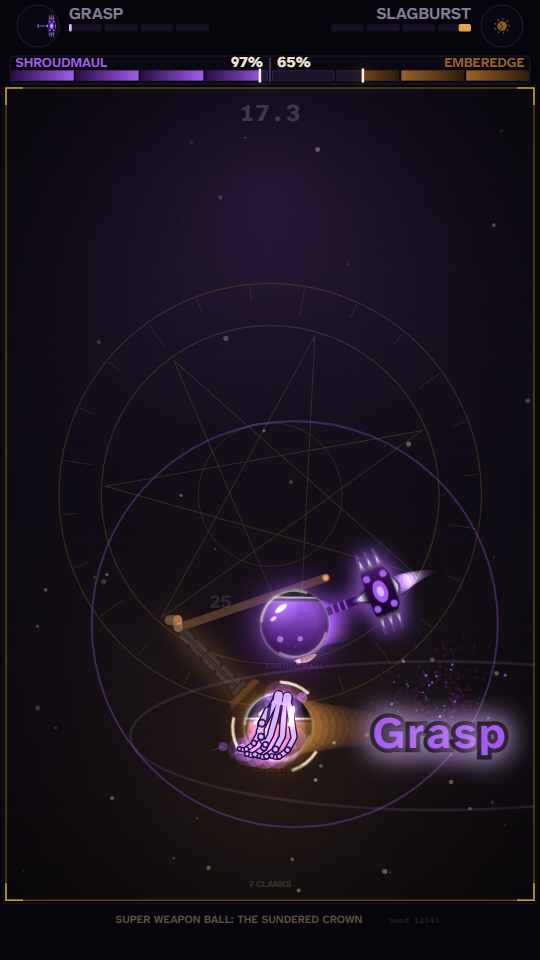
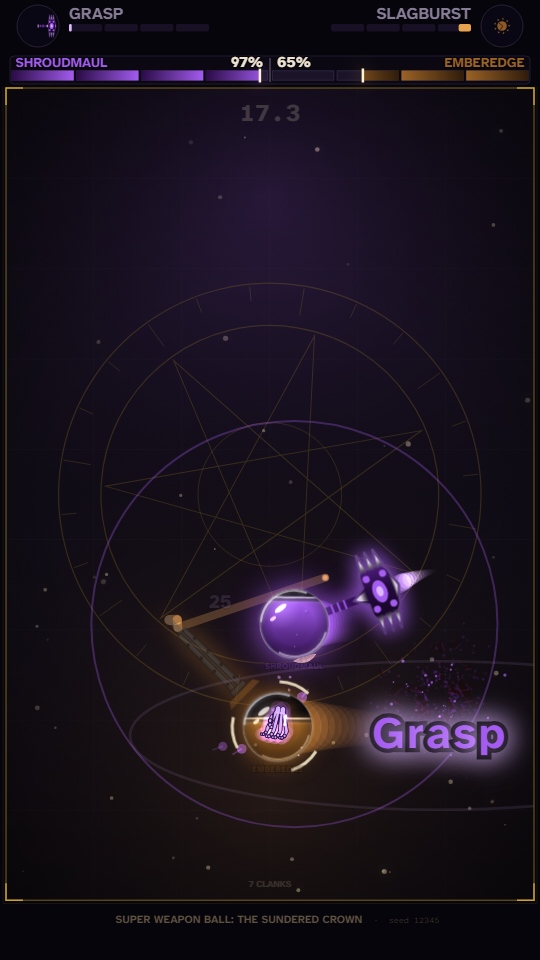
The hand was twice the size of the thing that grew it, with a spider's fingers — and both of those measure
Rick: "can we try making the hand smaller than the artifact? and with shorter
fingers in better proportion to an actual hand?"

BOTH COMPLAINTS MEASURE. The artifact is 68px across:

  GRASP, open, at GRIP_SCALE 2.8    140.5 x 63.9 px    2.07x the artifact
  GRASP, shut, at GRIP_SCALE 2.8     72.3 x 58.2 px    1.06x

And the proportion, straight out of `_boneParts`: metacarpals span 0.82R while
three phalanges plus their gaps run 1.52R — a hand of 1 : 1.85, where on a real
hand the middle finger and the palm are close to the same length.

  GRIP_SCALE  2.8 -> 1.55      GRIP_FINGER (new) 0.55   =>  1 : 1.02

  GRASP, open       59.7 x 32.5    0.88x the artifact
  GRASP, shut       34.6 x 28.0    0.51x
  GRASP, crushing   42.2 x 34.2    0.62x
  Revenant's        27.7 x 15.7    0.41x   for scale, and Rick called that
                                           legible AS A HAND

THE WIDTHS ARE DELIBERATELY NOT SCALED WITH THE LENGTHS. A shorter finger at
the same thickness is a THICKER finger, and thick short fingers are most of
what separates a hand from a claw.

AND THE ARITHMETIC THAT PICKED THE FIRST ANSWER MEASURED THE WRONG THING. 1.8
was chosen off the skeleton's centreline extent and came in at 1.02x — right on
the line and not under it — because the drawn hand carries a stroke width on
every bone and the thumb spreads past the palm, and that is 18% of it. Measure
the bounding box of the parts, not the skeleton's extent.

VERIFICATION
[…]

diff --git a/02-chain/sc-gnawed.html b/02-chain/sc-gnawed.html
@@ -1586,6 +1586,20 @@ function ballisticAngle(dx, dy, v, g){
    comical"). This is ONE hand, it is attached to the fighter that grew it, and
    it has to carry an ultimate that puts no number on the screen at all.
 
+   AND 2.8 WAS TOO BIG, WHICH IS RICK AGAIN: "can we try making the hand
+   smaller than the artifact?" MEASURED, IT WAS TWICE THE ARTIFACT. The ball is
+   68px across; the open hand's bounding box at 2.8 is **140px**, or 2.07x it.
+   1.8 was the first answer and it came in at **1.02x** — right on the line and
+   not under it. The arithmetic that picked it measured bone CENTRELINES; the
+   drawn hand carries a stroke width on every bone and the thumb spreads past
+   the palm, and that is 18% of it. **Measure the bounding box of the parts,
+   not the skeleton's extent.**
+
+   1.55 puts the open hand at 60px — **0.88x** — the closed one at 0.51x and
+   the crush at 0.62x, so the hand is smaller than the thing that grew it in
+   every state. For scale, Revenant's is 0.41x and Rick called that legible as
+   a hand, so there is room below this and not much above it.
+
    1.35 WAS THE FIRST CUT AND IT WAS REFUTED BY THE FIRST SHEET. Photographed
    off a real match (`grasp_sheet.py`) the hand came out ~40px on a 540 frame
    and read as a white scribble on the ball -- which is Rick's own complaint
@@ -1602,7 +1616,21 @@ function ballisticAngle(dx, dy, v, g){
    question cannot be answered off a sheet: the sheet shows the object still,
    and every size complaint in this project's history has been about an object
    in motion among others. FILM IT. */
-const GRIP_SCALE = 2.8;
+const GRIP_SCALE = 1.55;
+
+/* AND THE FINGERS ARE SHORTENED TO A REAL HAND'S PROPORTION. Rick: "with
+   shorter fingers in better proportion to an actual hand?"
+
+   `_boneParts` is drawn at 1 : 1.85 — metacarpals 0.82R against phalanges and
+   gaps of 1.52R — which is a spider's hand, and at Revenant's small airborne
+   scale nobody noticed. On a real hand the middle finger and the palm are
+   close to the same length. 0.55 puts the fingers at 0.84R against the palm's
+   0.82R, which is 1 : 1.02.
+
+   THE WIDTHS ARE NOT SCALED WITH THEM, deliberately: a shorter finger at the
+   same thickness is a THICKER finger, and thick short fingers are most of what
+   separates a hand from a claw. */
+const GRIP_FINGER = 0.55;
 
 const WEAPON_BY_ID = Object.fromEntries(WEAPONS.map(w => [w.id, w]));
 
@@ -18224,8 +18252,12 @@ class Renderer {
      in motion among two others. */
   _handScale(shut){ return (13 + 5 * (1 - shut)) * 0.7; }
 
-  _boneParts(R, shut){
+  _boneParts(R, shut, finger){
     const p = [], s = shut;
+    /* HOW LONG THE FINGERS ARE, as a share of the length Revenant uses.
+       Undefined is 1, so `drawHands`' two-argument call is untouched. GRASP
+       passes GRIP_FINGER — see the constant for the proportion it fixes. */
+    const F = finger === undefined ? 1 : finger;
     /* THE FOREARM IS TWO BONES, and it is the thing that started this. */
     p.push({ x1: -3.00 * R, y1: -0.20 * R, x2: -0.90 * R, y2: -0.22 * R,
              w: 0.20 * R });
@@ -18248,23 +18280,23 @@ class Renderer {
       const taper = (k === 3 ? 0.80 : 1) * (k === 0 ? 0.90 : 1);
       let x = 0.30 * R, yy = y, a = s * 0.62;
       for (let seg = 0; seg < 3; seg++){
-        const L = R * (0.54 - seg * 0.085) * taper * (1 - 0.20 * s);
+        const L = R * (0.54 - seg * 0.085) * taper * (1 - 0.20 * s) * F;
         const nx = x + Math.cos(a) * L, ny = yy + Math.sin(a) * L * 0.5;
         p.push({ x1: x, y1: yy, x2: nx, y2: ny,
                  w: (0.125 - seg * 0.018) * R * taper });
-        x = nx + Math.cos(a) * R * 0.075;
-        yy = ny + Math.sin(a) * R * 0.075;
+        x = nx + Math.cos(a) * R * 0.075 * F;
+        yy = ny + Math.sin(a) * R * 0.075 * F;
         a += s * 0.52;
       }
     }
     /* the thumb: a metacarpal and two phalanges, opposed */
     let tx = -0.34 * R, ty = 0.34 * R, ta = 0.72 - s * 0.30;
     for (let seg = 0; seg < 3; seg++){
-      const L = R * (0.40 - seg * 0.07);
+      const L = R * (0.40 - seg * 0.07) * F;
       const nx = tx + Math.cos(ta) * L, ny = ty + Math.sin(ta) * L * 0.62;
       p.push({ x1: tx, y1: ty, x2: nx, y2: ny, w: (0.15 - seg * 0.02) * R });
-      tx = nx + Math.cos(ta) * R * 0.05;
-      ty = ny + Math.sin(ta) * R * 0.05;
+      tx = nx + Math.cos(ta) * R * 0.05 * F;
+      ty = ny + Math.sin(ta) * R * 0.05 * F;
       ta -= 0.42 + s * 0.30;
     }
     return p;
@@ -18883,7 +18915,7 @@ class Renderer {
          `_boneParts` from the CARPALS on: the forearm it opens with is the
          tether's job here, and drawing it twice would put a second elbow in
          the middle of the limb. */
-      const parts = this._boneParts(HR, shut).slice(2);
+      const parts = this._boneParts(HR, shut, GRIP_FINGER).slice(2);
       c.save();
       c.globalAlpha = fade;
       c.translate(hx, hy);

diff --git a/02-chain/sc-grasp.html b/02-chain/sc-grasp.html
@@ -1575,6 +1575,20 @@ function ballisticAngle(dx, dy, v, g){
    comical"). This is ONE hand, it is attached to the fighter that grew it, and
    it has to carry an ultimate that puts no number on the screen at all.
 
+   AND 2.8 WAS TOO BIG, WHICH IS RICK AGAIN: "can we try making the hand
+   smaller than the artifact?" MEASURED, IT WAS TWICE THE ARTIFACT. The ball is
+   68px across; the open hand's bounding box at 2.8 is **140px**, or 2.07x it.
+   1.8 was the first answer and it came in at **1.02x** — right on the line and
+   not under it. The arithmetic that picked it measured bone CENTRELINES; the
+   drawn hand carries a stroke width on every bone and the thumb spreads past
+   the palm, and that is 18% of it. **Measure the bounding box of the parts,
+   not the skeleton's extent.**
+
+   1.55 puts the open hand at 60px — **0.88x** — the closed one at 0.51x and
+   the crush at 0.62x, so the hand is smaller than the thing that grew it in
+   every state. For scale, Revenant's is 0.41x and Rick called that legible as
+   a hand, so there is room below this and not much above it.
+
    1.35 WAS THE FIRST CUT AND IT WAS REFUTED BY THE FIRST SHEET. Photographed
    off a real match (`grasp_sheet.py`) the hand came out ~40px on a 540 frame
    and read as a white scribble on the ball -- which is Rick's own complaint
@@ -1591,7 +1605,21 @@ function ballisticAngle(dx, dy, v, g){
    question cannot be answered off a sheet: the sheet shows the object still,
    and every size complaint in this project's history has been about an object
    in motion among others. FILM IT. */
-const GRIP_SCALE = 2.8;
+const GRIP_SCALE = 1.55;
+
+/* AND THE FINGERS ARE SHORTENED TO A REAL HAND'S PROPORTION. Rick: "with
+   shorter fingers in better proportion to an actual hand?"
+
+   `_boneParts` is drawn at 1 : 1.85 — metacarpals 0.82R against phalanges and
+   gaps of 1.52R — which is a spider's hand, and at Revenant's small airborne
+   scale nobody noticed. On a real hand the middle finger and the palm are
+   close to the same length. 0.55 puts the fingers at 0.84R against the palm's
+   0.82R, which is 1 : 1.02.
+
+   THE WIDTHS ARE NOT SCALED WITH THEM, deliberately: a shorter finger at the
+   same thickness is a THICKER finger, and thick short fingers are most of what
+   separates a hand from a claw. */
+const GRIP_FINGER = 0.55;
 
 const WEAPON_BY_ID = Object.fromEntries(WEAPONS.map(w => [w.id, w]));
 
@@ -18135,8 +18163,12 @@ class Renderer {
      in motion among two others. */
   _handScale(shut){ return (13 + 5 * (1 - shut)) * 0.7; }
 
-  _boneParts(R, shut){
+  _boneParts(R, shut, finger){
     const p = [], s = shut;
+    /* HOW LONG THE FINGERS ARE, as a share of the length Revenant uses.
+       Undefined is 1, so `drawHands`' two-argument call is untouched. GRASP
+       passes GRIP_FINGER — see the constant for the proportion it fixes. */
+    const F = finger === undefined ? 1 : finger;
     /* THE FOREARM IS TWO BONES, and it is the thing that started this. */
     p.push({ x1: -3.00 * R, y1: -0.20 * R, x2: -0.90 * R, y2: -0.22 * R,
              w: 0.20 * R });
@@ -18159,23 +18191,23 @@ class Renderer {
       const taper = (k === 3 ? 0.80 : 1) * (k === 0 ? 0.90 : 1);
       let x = 0.30 * R, yy = y, a = s * 0.62;
       for (let seg = 0; seg < 3; seg++){
-        const L = R * (0.54 - seg * 0.085) * taper * (1 - 0.20 * s);
+        const L = R * (0.54 - seg * 0.085) * taper * (1 - 0.20 * s) * F;
         const nx = x + Math.cos(a) * L, ny = yy + Math.sin(a) * L * 0.5;
         p.push({ x1: x, y1: yy, x2: nx, y2: ny,
                  w: (0.125 - seg * 0.018) * R * taper });
-        x = nx + Math.cos(a) * R * 0.075;
-        yy = ny + Math.sin(a) * R * 0.075;
+        x = nx + Math.cos(a) * R * 0.075 * F;
+        yy = ny + Math.sin(a) * R * 0.075 * F;
         a += s * 0.52;
       }
     }
     /* the thumb: a metacarpal and two phalanges, opposed */
     let tx = -0.34 * R, ty = 0.34 * R, ta = 0.72 - s * 0.30;
     for (let seg = 0; seg < 3; seg++){
-      const L = R * (0.40 - seg * 0.07);
+      const L = R * (0.40 - seg * 0.07) * F;
       const nx = tx + Math.cos(ta) * L, ny = ty + Math.sin(ta) * L * 0.62;
       p.push({ x1: tx, y1: ty, x2: nx, y2: ny, w: (0.15 - seg * 0.02) * R });
-      tx = nx + Math.cos(ta) * R * 0.05;
-      ty = ny + Math.sin(ta) * R * 0.05;
+      tx = nx + Math.cos(ta) * R * 0.05 * F;
+      ty = ny + Math.sin(ta) * R * 0.05 * F;
       ta -= 0.42 + s * 0.30;
     }
     return p;
@@ -18794,7 +18826,7 @@ class Renderer {
          `_boneParts` from the CARPALS on: the forearm it opens with is the
          tether's job here, and drawing it twice would put a second elbow in
          the middle of the limb. */
-      const parts = this._boneParts(HR, shut).slice(2);
+      const parts = this._boneParts(HR, shut, GRIP_FINGER).slice(2);
       c.save();
       c.globalAlpha = fade;
       c.translate(hx, hy);

diff --git a/tools/shroudmaul_build.py b/tools/shroudmaul_build.py
@@ -1109,7 +1109,7 @@ S3 = [
          `_boneParts` from the CARPALS on: the forearm it opens with is the
          tether's job here, and drawing it twice would put a second elbow in
          the middle of the limb. */
-      const parts = this._boneParts(HR, shut).slice(2);
+      const parts = this._boneParts(HR, shut, GRIP_FINGER).slice(2);
       c.save();
       c.globalAlpha = fade;
       c.translate(hx, hy);
@@ -1147,6 +1147,46 @@ S3 = [
 
   drawShots(m){'''),
 
+# ---------------------------------- 8b. THE FINGERS GET THEIR OWN LENGTH
+# Rick: "with shorter fingers in better proportion to an actual hand?"
+#
+# MEASURED, HE IS DESCRIBING A 1 : 1.85 HAND. `_boneParts`' metacarpals span
+# 0.82R and its three phalanges plus their gaps run 1.52R, so the fingers are
+# nearly twice the palm. On a real hand the middle finger and the palm are
+# close to the same length -- 1 : 1. At 0.55 the fingers come to 0.84R against
+# the palm's 0.82R, which is that.
+#
+# THE PARAMETER DEFAULTS TO 1 AND REVENANT NEVER PASSES IT. Its hands are
+# Rick's own, over three rounds and a reference video, and `drawHands` calls
+# this with two arguments -- so it returns exactly what it returned before,
+# element for element. The builder asserts that below rather than trusting it.
+# The bones stay SHARED, which is the rule: a skeleton drawn twice by two
+# functions is a skeleton that drifts.
+("_boneParts.finger", '''  _boneParts(R, shut){
+    const p = [], s = shut;''',
+ '''  _boneParts(R, shut, finger){
+    const p = [], s = shut;
+    /* HOW LONG THE FINGERS ARE, as a share of the length Revenant uses.
+       Undefined is 1, so `drawHands`' two-argument call is untouched. GRASP
+       passes GRIP_FINGER — see the constant for the proportion it fixes. */
+    const F = finger === undefined ? 1 : finger;'''),
+
+("_boneParts.phalanx", '''        const L = R * (0.54 - seg * 0.085) * taper * (1 - 0.20 * s);''',
+ '''        const L = R * (0.54 - seg * 0.085) * taper * (1 - 0.20 * s) * F;'''),
+
+("_boneParts.gap", '''        x = nx + Math.cos(a) * R * 0.075;
+        yy = ny + Math.sin(a) * R * 0.075;''',
+ '''        x = nx + Math.cos(a) * R * 0.075 * F;
+        yy = ny + Math.sin(a) * R * 0.075 * F;'''),
+
+("_boneParts.thumb", '''      const L = R * (0.40 - seg * 0.07);''',
+ '''      const L = R * (0.40 - seg * 0.07) * F;'''),
+
+("_boneParts.thumbgap", '''      tx = nx + Math.cos(ta) * R * 0.05;
+      ty = ny + Math.sin(ta) * R * 0.05;''',
+ '''      tx = nx + Math.cos(ta) * R * 0.05 * F;
+      ty = ny + Math.sin(ta) * R * 0.05 * F;'''),
+
 # ------------------------------------------------------------ 9. the scale
 ("GRIP_SCALE", '''const WEAPON_BY_ID = Object.fromEntries(WEAPONS.map(w => [w.id, w]));''',
  '''/* GRASP'S HAND IS THE LARGEST OBJECT THIS GAME DRAWS, AND THAT IS THE POINT.
@@ -1156,6 +1196,20 @@ S3 = [
    THREE in flight at once ("the hands are a bit large. they look a little
    comical"). This is ONE hand, it is attached to the fighter that grew it, and
    it has to carry an ultimate that puts no number on the screen at all.
+
+   AND 2.8 WAS TOO BIG, WHICH IS RICK AGAIN: "can we try making the hand
+   smaller than the artifact?" MEASURED, IT WAS TWICE THE ARTIFACT. The ball is
+   68px across; the open hand's bounding box at 2.8 is **140px**, or 2.07x it.
+   1.8 was the first answer and it came in at **1.02x** — right on the line and
+   not under it. The arithmetic that picked it measured bone CENTRELINES; the
+   drawn hand carries a stroke width on every bone and the thumb spreads past
+   the palm, and that is 18% of it. **Measure the bounding box of the parts,
+   not the skeleton's extent.**
+
+   1.55 puts the open hand at 60px — **0.88x** — the closed one at 0.51x and
+   the crush at 0.62x, so the hand is smaller than the thing that grew it in
+   every state. For scale, Revenant's is 0.41x and Rick called that legible as
+   a hand, so there is room below this and not much above it.
 
    1.35 WAS THE FIRST CUT AND IT WAS REFUTED BY THE FIRST SHEET. Photographed
    off a real match (`grasp_sheet.py`) the hand came out ~40px on a 540 frame
@@ -1173,7 +1227,21 @@ S3 = [
    question cannot be answered off a sheet: the sheet shows the object still,
    and every size complaint in this project's history has been about an object
    in motion among others. FILM IT. */
-const GRIP_SCALE = 2.8;
+const GRIP_SCALE = 1.55;
+
+/* AND THE FINGERS ARE SHORTENED TO A REAL HAND'S PROPORTION. Rick: "with
+   shorter fingers in better proportion to an actual hand?"
+
+   `_boneParts` is drawn at 1 : 1.85 — metacarpals 0.82R against phalanges and
+   gaps of 1.52R — which is a spider's hand, and at Revenant's small airborne
+   scale nobody noticed. On a real hand the middle finger and the palm are
+   close to the same length. 0.55 puts the fingers at 0.84R against the palm's
+   0.82R, which is 1 : 1.02.
+
+   THE WIDTHS ARE NOT SCALED WITH THEM, deliberately: a shorter finger at the
+   same thickness is a THICKER finger, and thick short fingers are most of what
+   separates a hand from a claw. */
+const GRIP_FINGER = 0.55;
 
 const WEAPON_BY_ID = Object.fromEntries(WEAPONS.map(w => [w.id, w]));'''),
 

diff --git a/06-docs/v56/shroudmaul-build-v56.md b/06-docs/v56/shroudmaul-build-v56.md
@@ -694,6 +694,52 @@ the same length, it starts 0.30s later.**
 > has stayed on the field through every one, which is the held-seconds law
 > doing exactly what it promised.
 
+## 6a-7. AND IT WAS TWICE THE SIZE OF THE THING THAT GREW IT, WITH A SPIDER'S FINGERS
+
+Rick: *"can we try making the hand smaller than the artifact? and with shorter
+fingers in better proportion to an actual hand?"*
+
+**Both complaints measure.** The artifact is 68px across:
+
+```
+                        bounding box       x the artifact
+GRASP, open, at 2.8      140.5 x 63.9         2.07
+GRASP, shut, at 2.8       72.3 x 58.2         1.06
+```
+
+And the proportion, straight out of `_boneParts`: the metacarpals span **0.82R**
+and the three phalanges plus their gaps run **1.52R** — a hand of
+**1 : 1.85**. On a real hand the middle finger and the palm are close to the
+same length.
+
+```
+GRIP_SCALE   2.8  -> 1.55        GRIP_FINGER   (new)  0.55   =>  1 : 1.02
+
+GRASP, open      59.7 x 32.5      0.88x the artifact
+GRASP, shut      34.6 x 28.0      0.51x
+GRASP, crushing  42.2 x 34.2      0.62x
+Revenant's       27.7 x 15.7      0.41x     for scale, and Rick called that
+                                            legible AS A HAND
+```
+
+**The widths are deliberately not scaled with the lengths.** A shorter finger at
+the same thickness is a THICKER finger, and thick short fingers are most of what
+separates a hand from a claw.
+
+> **THE ARITHMETIC THAT PICKED THE FIRST ANSWER MEASURED THE WRONG THING.** 1.8
+> was chosen off the skeleton's centreline extent and came in at **1.02x** —
+> right on the line and not under it. The drawn hand carries a stroke width on
+> every bone and the thumb spreads past the palm, and that is 18% of it.
+> **Measure the bounding box of the parts, not the skeleton's extent.**
+
+> **AND REVENANT'S HANDS DID NOT MOVE, WHICH IS ASSERTED AND NOT ASSUMED.**
+> `_boneParts` gained a third parameter and `finger === undefined` is 1;
+> `drawHands` calls it with two arguments. `_boneParts(R, shut)` and
+> `_boneParts(R, shut, 1)` are compared element for element and are identical.
+> Those hands are Rick's own over three rounds and a reference video, and the
+> bones stay SHARED — a skeleton drawn twice by two functions is a skeleton
+> that drifts.
+
 ## 6b. THE HAND WAS 40px AND READ AS A SCRIBBLE
 
 `GRIP_SCALE` shipped at 1.35, which put the hand at ~40px on a 540 frame.

diff --git a/CLAUDE.md b/CLAUDE.md
@@ -196,6 +196,27 @@ applies nothing, and locks the weapon for 1.0s.** The THIRD grab is a true stun 
 > along, because the crush sets `hitStop` and a clock on the normal path
 > freezes for exactly the frames the viewer is staring hardest at.
 
+> **AND THE HAND WAS TWICE THE SIZE OF THE THING THAT GREW IT, WITH A SPIDER'S
+> FINGERS.** Rick: *"can we try making the hand smaller than the artifact? and
+> with shorter fingers in better proportion to an actual hand?"* **Both
+> measure.** The artifact is 68px across and the open hand's bounding box was
+> **140px — 2.07x it**; `_boneParts` draws metacarpals of 0.82R against
+> phalanges and gaps of 1.52R, which is **1 : 1.85** where a real hand is about
+> 1 : 1. `GRIP_SCALE` 2.8 -> **1.55** and a new `GRIP_FINGER` **0.55** put it at
+> 0.88x open, 0.51x shut, 0.62x crushing, and 1 : 1.02. **The widths are not
+> scaled with the lengths** — a shorter finger at the same thickness is a
+> THICKER one, and that is most of what separates a hand from a claw.
+>
+> **AND THE ARITHMETIC THAT PICKED THE FIRST ANSWER MEASURED THE WRONG THING.**
+> 1.8 came off the skeleton's centreline extent and landed at 1.02x — on the
+> line, not under it — because the drawn hand carries a stroke width on every
+> bone and the thumb spreads past the palm, which is 18% of it. **Measure the
+> bounding box of the parts, not the skeleton's extent.**
+>
+> **REVENANT'S HANDS DID NOT MOVE AND THAT IS ASSERTED.** `_boneParts` gained a
+> third parameter defaulting to 1, `drawHands` passes two, and the two calls are
+> compared element for element. The bones stay SHARED.
+
 > **AND THE ARM IS GONE, WHICH WAS THE DESIGN'S OWN STRONGEST ARGUMENT.**
 > Rick: *"can we drop the arm and just have the hand float out and grab?"*
 > `grab-v56.md` §7b picked the tether out of four separations from Revenant's
